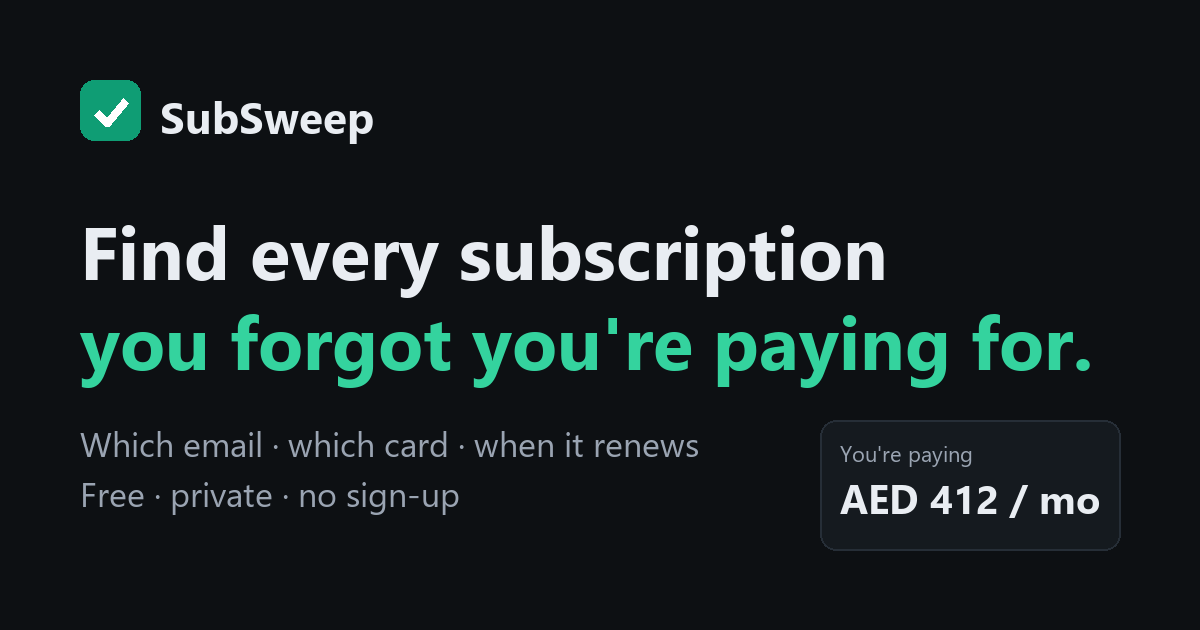
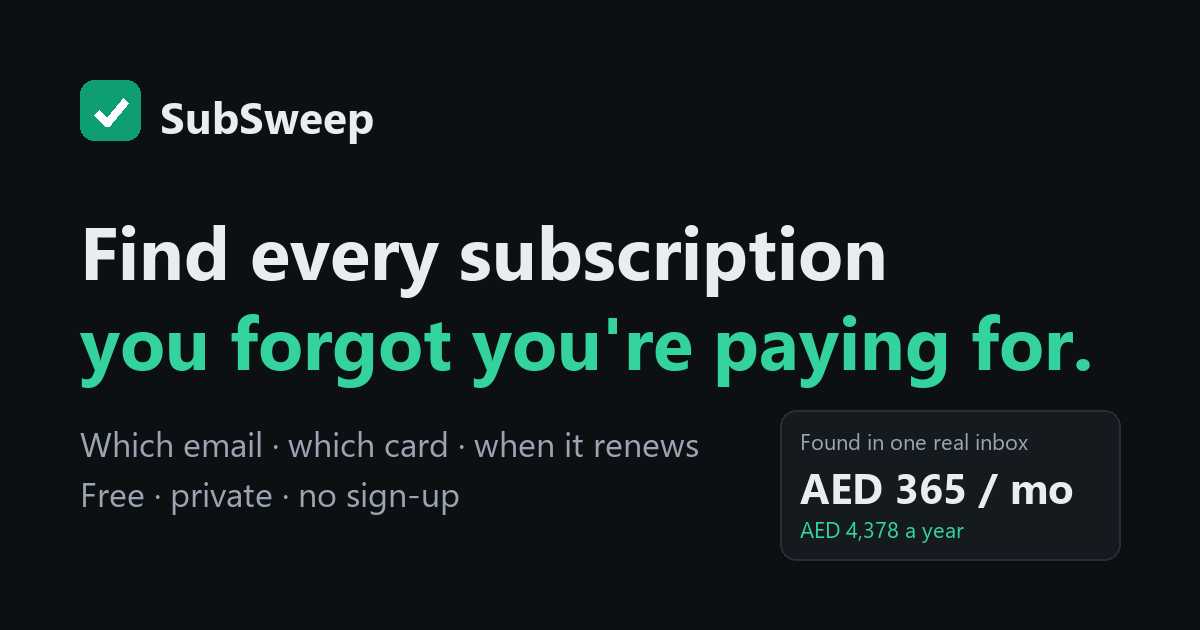
Remove demo data; real screenshot; read bank SMS alerts
- Drop example data, sample receipt and unreleased paid plans
- Landing hero shows a real (masked) SubSweep list and real share image
- Paste box reads UAE bank card SMS, several at once; repeat charges flagged

Changed region(s): [[0.6475, 0.6937, 0.925, 0.9048], [0.6783, 0.6333, 0.925, 0.6635]]

diff --git a/app.js b/app.js
@@ -46,16 +46,6 @@
     { t: 'Price increases', q: '("price increase" OR "price change" OR "new price" OR "updating our prices") newer_than:1y' }
   ];
 
-  var SAMPLE = [
-    'From: Design Studio <billing@designstudio.example>',
-    'To: old.hotmail@hotmail.com',
-    'Subject: Your free trial ends in 3 days',
-    '',
-    'Hi there, your 14-day free trial of Design Studio Pro ends on ' + fmtLong(addDays(today(), 3)) + '.',
-    'After that you will be charged USD 14.99 per month to your Visa ending in 0193.',
-    'Cancel anytime from your account settings.'
-  ].join('\n');
-
   // ---------- state ----------
   var state = load();
 
@@ -120,7 +110,9 @@
     if (known) out.name = known.n;
     else {
       var from = text.match(/^\s*from:\s*"?([^"<\n]+?)"?\s*<([^>]+)>/im);
-      if (from && from[1].trim()) out.name = from[1].trim();
+      var merchant = !from && isSms(text) && smsMerchant(text);
+      if (merchant) out.name = merchant;
+      else if (from && from[1].trim()) out.name = from[1].trim();
       else {
         var dom = text.match(/@([a-z0-9-]+)\.[a-z.]+/i);
         if (dom) out.name = dom[1].charAt(0).toUpperCase() + dom[1].slice(1);
@@ -183,6 +175,52 @@
     return out;
   }
 
+  // ---------- bank SMS ----------
+  // e.g. "Purchase of AED 22.00 with Credit Card ending 7385 at X CORP. PAID FEATURES, San Francisco. Avl Cr. Limit is AED 9,000.00"
+  //      "Your Cr.Card XXX7385 was used for AED22.00 on 13/10/2026 at NETFLIX.COM,Amsterdam."
+  // How common subscriptions appear as card merchants.
+  var MERCHANT_ALIASES = [
+    [/^x corp|^twitter/, 'X Premium'], [/openai|chatgpt/, 'ChatGPT Plus'], [/anthropic|claude\.ai/, 'Claude Pro'],
+    [/apple\.com\/bill|itunes|apple services/, 'Apple (App Store)'], [/google \s?\*?\s?(play|one|youtube)|google play/, 'Google Play'],
+    [/youtube/, 'YouTube Premium'], [/netflix/, 'Netflix'], [/spotify/, 'Spotify'], [/amzn prime|amazon prime/, 'Amazon Prime'],
+    [/github/, 'GitHub Copilot'], [/microsoft|msft/, 'Microsoft 365'], [/adobe/, 'Adobe Creative Cloud'], [/canva/, 'Canva Pro'],
+    [/shahid/, 'Shahid VIP'], [/osn/, 'OSN+'], [/anghami/, 'Anghami Plus'], [/starz/, 'STARZPLAY'], [/careem plus/, 'Careem Plus']
+  ];
+  var SUBSCRIPTION_HINT = /subscr|premium|member|plan\b|monthly|renew/i;
+  var SMS_AMOUNT = /(AED|USD|EUR|GBP|SAR|INR|QAR|KWD|BHD|OMR)\s?\d/i;
+  function isSms(t) { return SMS_AMOUNT.test(t) && /\b(card|cr\.?\s?card|db\.?\s?card|a\/c|acct|account)\b/i.test(t) && !/^\s*from:/im.test(t); }
+  function smsMerchant(t) {
+    var m = t.match(/\b(?:at|@|merchant:?)\s+([A-Za-z0-9*][A-Za-z0-9 .&*'\/_-]{1,40}?)(?=\s*(?:,|\.\s|\.$|\bon\b|\bavl|\bavail|\bfor\b|\bref\b|\btxn\b|$))/i);
+    if (!m) return '';
+    var raw = m[1].replace(/\*+/g, ' ').replace(/\s+/g, ' ').trim();
+    var low = raw.toLowerCase();
+    for (var i = 0; i < MERCHANT_ALIASES.length; i++) if (MERCHANT_ALIASES[i][0].test(low)) return MERCHANT_ALIASES[i][1];
+    var first = low.split(/[\s.]/)[0];
+    var k = KNOWN.filter(function (x) { return x.n.toLowerCase().split(' ')[0] === first && first.length > 2; })[0];
+    if (k) return k.n;
+    return raw.toLowerCase().replace(/\b[a-z]/g, function (c) { return c.toUpperCase(); }).replace(/\.(com|net|io|ae)\b/i, '');
+  }
+  // Several SMS pasted at once: one charge per line. A merchant charged 2+ times is treated as a subscription.
+  function parseSmsBatch(text) {
+    var lines = text.split(/\n+/).map(function (l) { return l.trim(); }).filter(isSms);
+    if (lines.length < 2) return null;
+    var by = {};
+    lines.forEach(function (l) {
+      var p = parseReceipt(l);
+      if (!p.name || !(p.price > 0)) return;
+      var key = p.name.toLowerCase();
+      var cur = by[key];
+      var known = KNOWN.some(function (x) { return x.n.toLowerCase() === key; }) || MERCHANT_ALIASES.some(function (a) { return a[1].toLowerCase() === key; });
+      if (!cur) by[key] = { p: p, n: 1, keep: known || SUBSCRIPTION_HINT.test(l) };
+      else { cur.n++; if ((p.next || '') > (cur.p.next || '')) cur.p = p; }
+    });
+    // Keep repeat charges and known subscription merchants; drop one-off shopping.
+    return Object.keys(by).filter(function (k) { return by[k].n > 1 || by[k].keep; }).map(function (k) {
+      var x = by[k];
+      return { name: x.p.name, price: x.p.price, cur: x.p.cur, cycle: x.p.cycle || 'monthly', next: x.p.next || '', card: x.p.card || '', via: 'card', trial: false, email: '', times: x.n };
+    });
+  }
+
   function findDates(text) {
     var res = [];
     var KEY = /(renew|next (billing|payment|charge)|trial (ends|will end)|ends on|will be charged|billed on|due)/i;
@@ -194,8 +232,8 @@
     var m, re;
     re = /\b(\d{4})-(\d{2})-(\d{2})\b/g;                                   // 2026-12-05
     while ((m = re.exec(text))) push(new Date(+m[1], +m[2] - 1, +m[3]), m.index);
-    re = /\b(\d{1,2})(?:st|nd|rd|th)?\s+(jan|feb|mar|apr|may|jun|jul|aug|sep|oct|nov|dec)[a-z]*\.?,?\s+(\d{4})\b/gi; // 5 December 2026
-    while ((m = re.exec(text))) push(new Date(+m[3], MONTHS[m[2].toLowerCase()], +m[1]), m.index);
+    re = /\b(\d{1,2})(?:st|nd|rd|th)?[\s-]+(jan|feb|mar|apr|may|jun|jul|aug|sep|oct|nov|dec)[a-z]*\.?,?[\s-]+(\d{4}|\d{2})\b/gi; // 5 December 2026, 13-OCT-26
+    while ((m = re.exec(text))) push(new Date(m[3].length === 2 ? 2000 + +m[3] : +m[3], MONTHS[m[2].toLowerCase()], +m[1]), m.index);
     re = /\b(jan|feb|mar|apr|may|jun|jul|aug|sep|oct|nov|dec)[a-z]*\.?\s+(\d{1,2})(?:st|nd|rd|th)?,?\s+(\d{4})\b/gi; // December 5, 2026
     while ((m = re.exec(text))) push(new Date(+m[3], MONTHS[m[1].toLowerCase()], +m[2]), m.index);
     re = /\b(\d{1,2})\/(\d{1,2})\/(\d{4})\b/g;                              // 05/12/2026 → day/month (UAE format)
@@ -292,7 +330,16 @@
 
   $('parseBtn').addEventListener('click', function () {
     var txt = els.raw.value.trim();
-    if (!txt) { toast('Paste an email first'); return; }
+    if (!txt) { toast('Paste an email or SMS first'); return; }
+    var batch = parseSmsBatch(txt);
+    if (batch && !batch.length) { toast('No repeating or subscription charges found in those messages.'); return; }
+    if (batch && batch.length) {
+      window.SubSweep.addItems(batch);
+      els.raw.value = '';
+      var repeat = batch.filter(function (b) { return b.times > 1; }).length;
+      toast('Added ' + batch.length + ' from your SMS' + (repeat ? ' (' + repeat + ' charged more than once)' : '') + '. Remove any one-off purchases.');
+      return;
+    }
     var p = parseReceipt(txt);
     fillForm(p);
     els.parseNote.style.display = 'block';
@@ -301,7 +348,6 @@
       : "Couldn't read much from that. Fill in the details by hand.";
     showTab('add');
   });
-  $('sampleBtn').addEventListener('click', function () { els.raw.value = SAMPLE; });
 
   // ---------- list ----------
   function render() {
@@ -317,7 +363,7 @@
     $('kIds').textContent = Object.keys(emails).length + ' / ' + Object.keys(cards).length;
 
     if (!items.length) {
-      els.list.innerHTML = '<div class="card empty"><h3>No subscriptions yet</h3><p class="muted">Start with step 1: open the Gmail searches in each of your accounts. Or load example data to look around.</p></div>';
+      els.list.innerHTML = '<div class="card empty"><h3>No subscriptions yet</h3><p class="muted">Start with step 1: connect each Gmail account, or paste a receipt or bank SMS in step 2.</p></div>';
       return;
     }
 
@@ -413,21 +459,6 @@
   $('clearBtn').addEventListener('click', function () {
     if (!state.items.length) return;
     if (armed($('clearBtn'), 'Click again to delete all ' + state.items.length)) { state.items = []; save(); render(); toast('All subscriptions deleted'); }
-  });
-
-  $('demoBtn').addEventListener('click', function () {
-    if (state.items.some(function (x) { return /^demo/.test(x.id); })) { toast('Example data is already loaded'); return; }
-    var t = today();
-    var demo = [
-      { name: 'Netflix', price: 56, cur: 'AED', cycle: 'monthly', next: toISO(addDays(t, 2)), email: 'me.personal@gmail.com', card: '4821', via: 'card' },
-      { name: 'ChatGPT Plus', price: 20, cur: 'USD', cycle: 'monthly', next: toISO(addDays(t, 9)), email: 'me.personal@gmail.com', card: '4821', via: 'card' },
-      { name: 'Shahid VIP', price: 29.99, cur: 'AED', cycle: 'monthly', next: toISO(addDays(t, 16)), email: 'me.personal@gmail.com', card: '', via: 'apple' },
-      { name: 'Design Studio Pro', price: 14.99, cur: 'USD', cycle: 'monthly', next: toISO(addDays(t, 3)), email: 'old.hotmail@hotmail.com', card: '0193', via: 'card', trial: true },
-      { name: 'Dropbox', price: 119.88, cur: 'USD', cycle: 'yearly', next: toISO(addDays(t, 52)), email: 'old.hotmail@hotmail.com', card: '0193', via: 'card' },
-      { name: 'Gym membership', price: 299, cur: 'AED', cycle: 'monthly', next: toISO(addDays(t, 21)), email: 'me@work.example', card: '7710', via: 'card' }
-    ];
-    demo.forEach(function (d, i) { d.id = 'demo' + Date.now() + i; d.trial = !!d.trial; d.cancel = ''; state.items.push(d); });
-    save(); render(); toast('Example data loaded');
   });
 
   $('csv').addEventListener('click', function () {

diff --git a/index.html b/index.html
@@ -42,6 +42,12 @@
   .local { display: flex; gap: 8px; flex-wrap: wrap; align-items: center; margin-top: 18px; }
   .chip { font-size: 13px; font-weight: 600; padding: 4px 10px; border-radius: 999px; background: var(--surface-2); color: var(--text); border: 1px solid var(--border); }
 
+  .real-shot { padding: 0; margin: 0; overflow: hidden; }
+  .real-shot img { display: block; width: 100%; height: auto; }
+  .real-shot figcaption { padding: 12px 16px; font-size: 14px; color: var(--muted); border-top: 1px solid var(--border); }
+  .free-only { display: grid; grid-template-columns: 220px 1fr auto; gap: 20px; align-items: center; }
+  .free-only ul { margin: 0; }
+  @media (max-width: 860px) { .free-only { grid-template-columns: 1fr; } }
   .stats { display: grid; grid-template-columns: repeat(3, 1fr); gap: 16px; }
   .stat-n { font-size: 40px; font-weight: 800; letter-spacing: -.03em; color: var(--accent); line-height: 1; }
   .stat p { margin: 8px 0 0; color: var(--muted); font-size: 15px; }
@@ -111,22 +117,10 @@
       <div class="local" aria-live="polite"><span class="small muted" id="localLabel">Popular where you are:</span><span id="localChips"></span></div>
     </div>
 
-    <div class="card mock" aria-label="Example SubSweep dashboard">
-      <div class="mock-top">
-        <div><div class="small muted">You're paying</div><div class="mock-total"><span data-money="412" data-cur="AED">AED 412</span> / month</div></div>
-        <span class="pill pill-soon">2 renew this week</span>
-      </div>
-      <div class="mock-group">
-        <div class="mock-email">you.personal@gmail.com</div>
-        <div class="mock-row"><span class="ico" style="background:#e50914">N</span><span class="name">Netflix<small>Card •• 4821 · renews in 2 days</small></span><span class="amt" data-money="56" data-cur="AED">AED 56</span></div>
-        <div class="mock-row"><span class="ico" style="background:#10a37f">AI</span><span class="name">ChatGPT Plus<small>Card •• 4821 · renews in 9 days</small></span><span class="amt" data-money="20" data-cur="USD">$20</span></div>
-      </div>
-      <div class="mock-group">
-        <div class="mock-email">old.hotmail@hotmail.com <span class="pill pill-muted">forgot this one</span></div>
-        <div class="mock-row"><span class="ico" style="background:#7c3aed">D</span><span class="name">Design tool trial<small>Card •• 0193 · <b style="color:var(--warn)">trial ends in 2 days</b></small></span><span class="amt" data-money="15" data-cur="USD">$15</span></div>
-        <div class="mock-row"><span class="ico" style="background:#0ea5e9">☁</span><span class="name">Cloud storage<small>Card •• 0193 · renews yearly</small></span><span class="amt"><span data-money="99" data-cur="USD">$99</span>/yr</span></div>
-      </div>
-    </div>
+    <figure class="card real-shot">
+      <img src="img/real-list.jpg" width="684" height="405" alt="A real SubSweep list: GitHub Copilot trial ended, Railway payment failing, Google AI Pro rising from ₹501 to ₹1,950, X Premium. Total AED 365 a month.">
+      <figcaption>A real SubSweep list from one inbox: <strong>AED 365 a month</strong>. Email and card details masked.</figcaption>
+    </figure>
   </div>
 
   <section style="padding-top:24px">
@@ -185,18 +179,12 @@
 
   <section id="pricing">
     <div class="wrap">
-      <h2>Simple pricing. Not another subscription.</h2>
-      <p class="lead">A subscription tracker shouldn't trap you in a subscription. The tracker is free today; paid features are coming soon.</p>
-      <div class="price-grid">
-        <div class="card price"><h3>Free</h3><div class="amt">$0</div><div class="approx">forever</div>
-          <ul><li>Unlimited subscriptions</li><li>Group by email and card</li><li>Gmail search shortcuts</li><li>Calendar reminders</li></ul>
-          <a href="app.html" class="btn btn-ghost">Start free</a></div>
-        <div class="card price featured"><h3>Full Sweep <span class="pill pill-muted">Coming soon</span></h3><div class="amt">$9</div><div class="approx" data-approx="9">one-time</div>
-          <ul><li>Everything in Free</li><li>Step-by-step cancel guides</li><li>Price-increase tracking</li><li>Export report</li></ul>
-          <a href="#waitlist" class="btn btn-primary">Get early access</a></div>
-        <div class="card price"><h3>Pro <span class="pill pill-muted">Coming soon</span></h3><div class="amt">$24</div><div class="approx" data-approx="24">per year</div>
-          <ul><li>Everything in Full Sweep</li><li>Forward receipts by email</li><li>Email and WhatsApp reminders</li><li>Sync across devices</li></ul>
-          <a href="#waitlist" class="btn btn-ghost">Get early access</a></div>
+      <h2>Free. Not another subscription.</h2>
+      <p class="lead">A subscription tracker shouldn't trap you in a subscription. Everything below is free today.</p>
+      <div class="card price free-only">
+        <div><h3>Free</h3><div class="amt">$0</div><div class="approx">No sign-up. No card.</div></div>
+        <ul><li>Connect each Gmail (beta) or paste receipts and bank SMS</li><li>See which email and card each subscription is on</li><li>Totals in your currency</li><li>Calendar reminders and cancel links</li></ul>
+        <a href="app.html" class="btn btn-primary">Start free</a>
       </div>
     </div>
   </section>
@@ -216,12 +204,12 @@
     <div class="wrap">
       <div class="card cta-band">
         <h2>Stop paying for things you forgot.</h2>
-        <p class="lead" style="margin:0 auto">Use the free tracker now, or get early access to cancel guides and reminders.</p>
+        <p class="lead" style="margin:0 auto">Use the free tracker now. Leave your email to hear when reminders by email and WhatsApp arrive.</p>
         <form class="waitlist" id="wlForm" novalidate>
           <label for="wlEmail" class="visually-hidden">Email address</label>
           <input type="email" id="wlEmail" name="email" placeholder="you@email.com" autocomplete="email" required>
           <input type="text" name="_honey" tabindex="-1" autocomplete="off" class="visually-hidden" aria-hidden="true">
-          <button class="btn btn-primary" type="submit" id="wlBtn">Get early access</button>
+          <button class="btn btn-primary" type="submit" id="wlBtn">Notify me</button>
         </form>
         <p class="small muted" style="margin-top:10px">We'll only email you about SubSweep. Unsubscribe anytime.</p>
         <div class="thanks" id="wlThanks" role="status" hidden>✓ You're on the list. While you wait, <a href="app.html">start your free sweep</a>.</div>

diff --git a/app.html b/app.html
@@ -131,14 +131,13 @@
       </div>
 
       <div class="panel" data-panel="paste" hidden>
-        <label for="raw">Paste a receipt, renewal or "trial ending" email</label>
-        <textarea id="raw" placeholder="From: Netflix <info@account.netflix.com>&#10;To: you@gmail.com&#10;Your membership will renew on 28 November 2026.&#10;Amount: AED 56.00 · Visa ending in 4821"></textarea>
+        <label for="raw">Paste a receipt email, or bank SMS alerts (several at once is fine)</label>
+        <textarea id="raw" placeholder="Paste a receipt or &quot;trial ending&quot; email here.&#10;&#10;Or paste your bank's card SMS alerts, one per line. Charges that repeat are flagged as subscriptions."></textarea>
         <div class="parse-note" id="parseNote"></div>
         <div style="display:flex; gap:8px; margin-top:10px; flex-wrap:wrap">
           <button class="btn btn-primary btn-sm" id="parseBtn">Read it →</button>
-          <button class="btn btn-ghost btn-sm" id="sampleBtn">Try a sample</button>
         </div>
-        <p class="note">Reading happens in your browser. Nothing you paste is uploaded.</p>
+        <p class="note">Reading happens in your browser. Nothing you paste is uploaded. Tip: on your phone, long-press your bank's SMS thread to copy messages.</p>
       </div>
 
       <div class="panel" data-panel="add" hidden>
@@ -175,7 +174,6 @@
           <select id="groupBy"><option value="email">Email</option><option value="card">Card</option><option value="none">Next charge</option></select>
         </div>
         <div class="toolbar">
-          <button class="btn btn-ghost btn-sm" id="demoBtn">Load example data</button>
           <button class="btn btn-danger btn-sm" id="clearBtn">Delete all</button>
         </div>
       </div>
